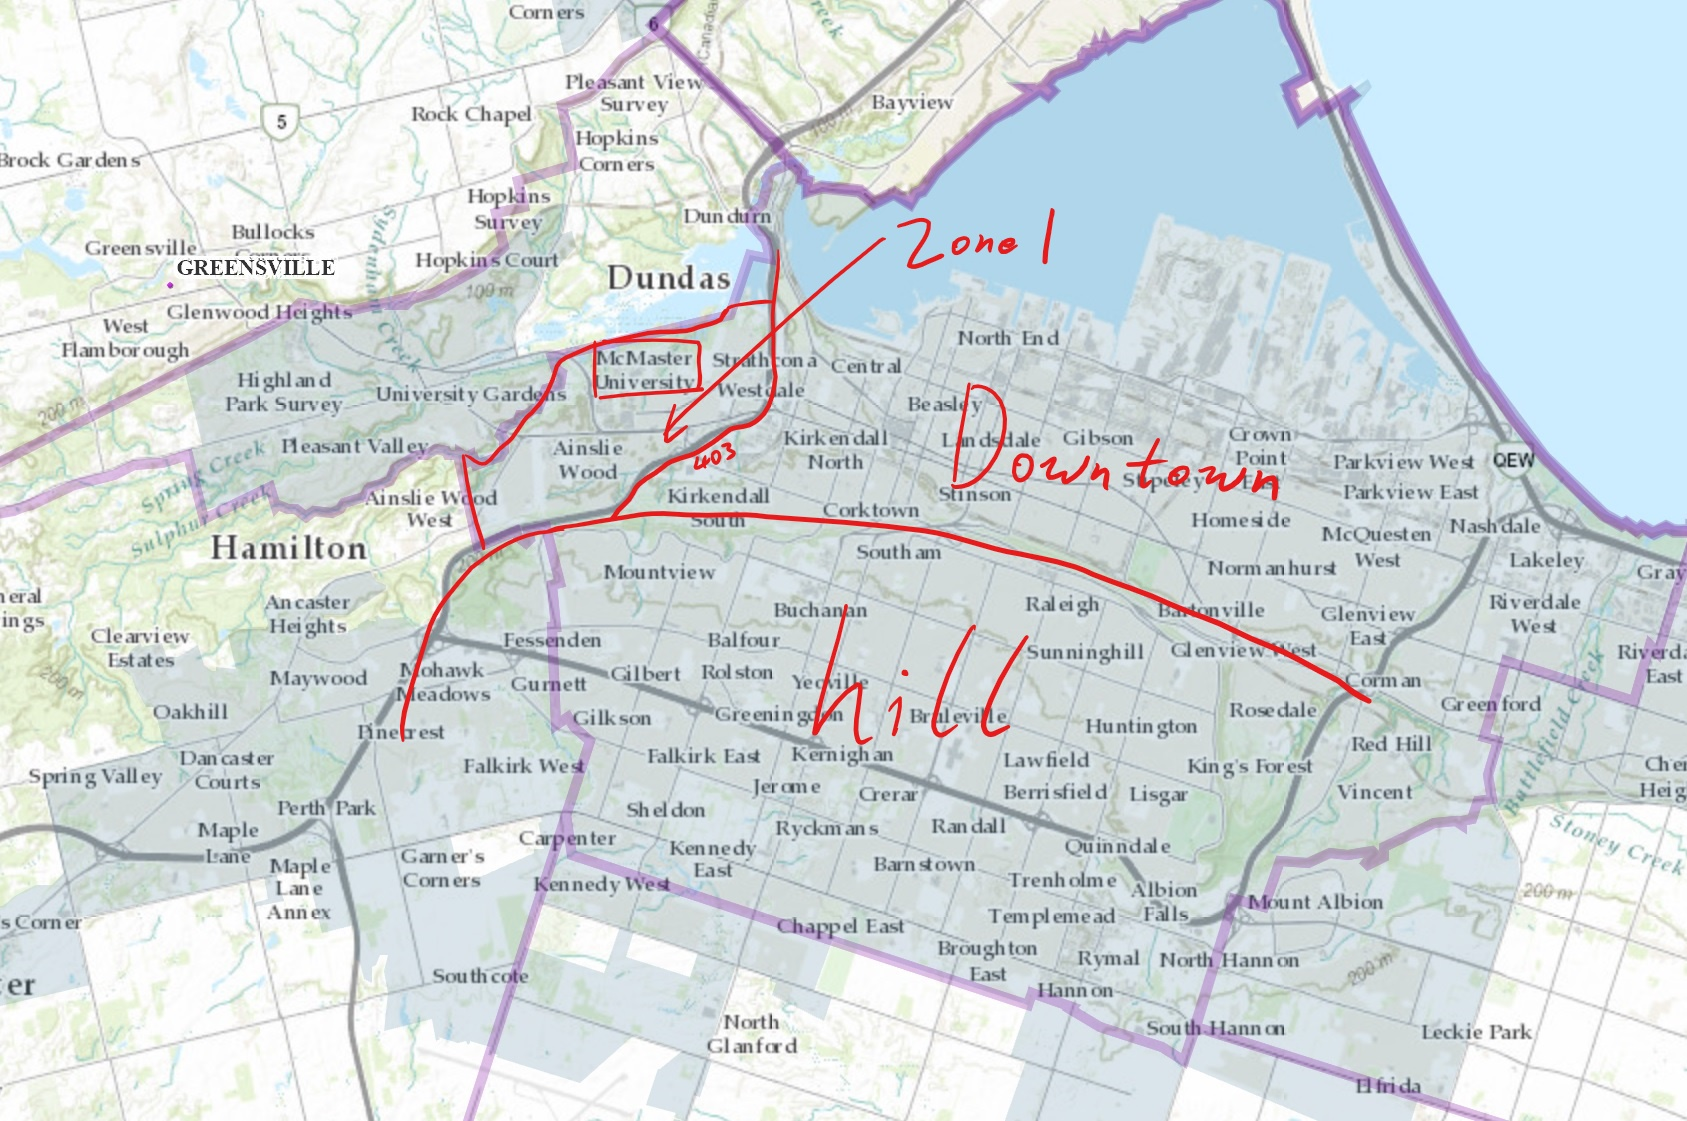
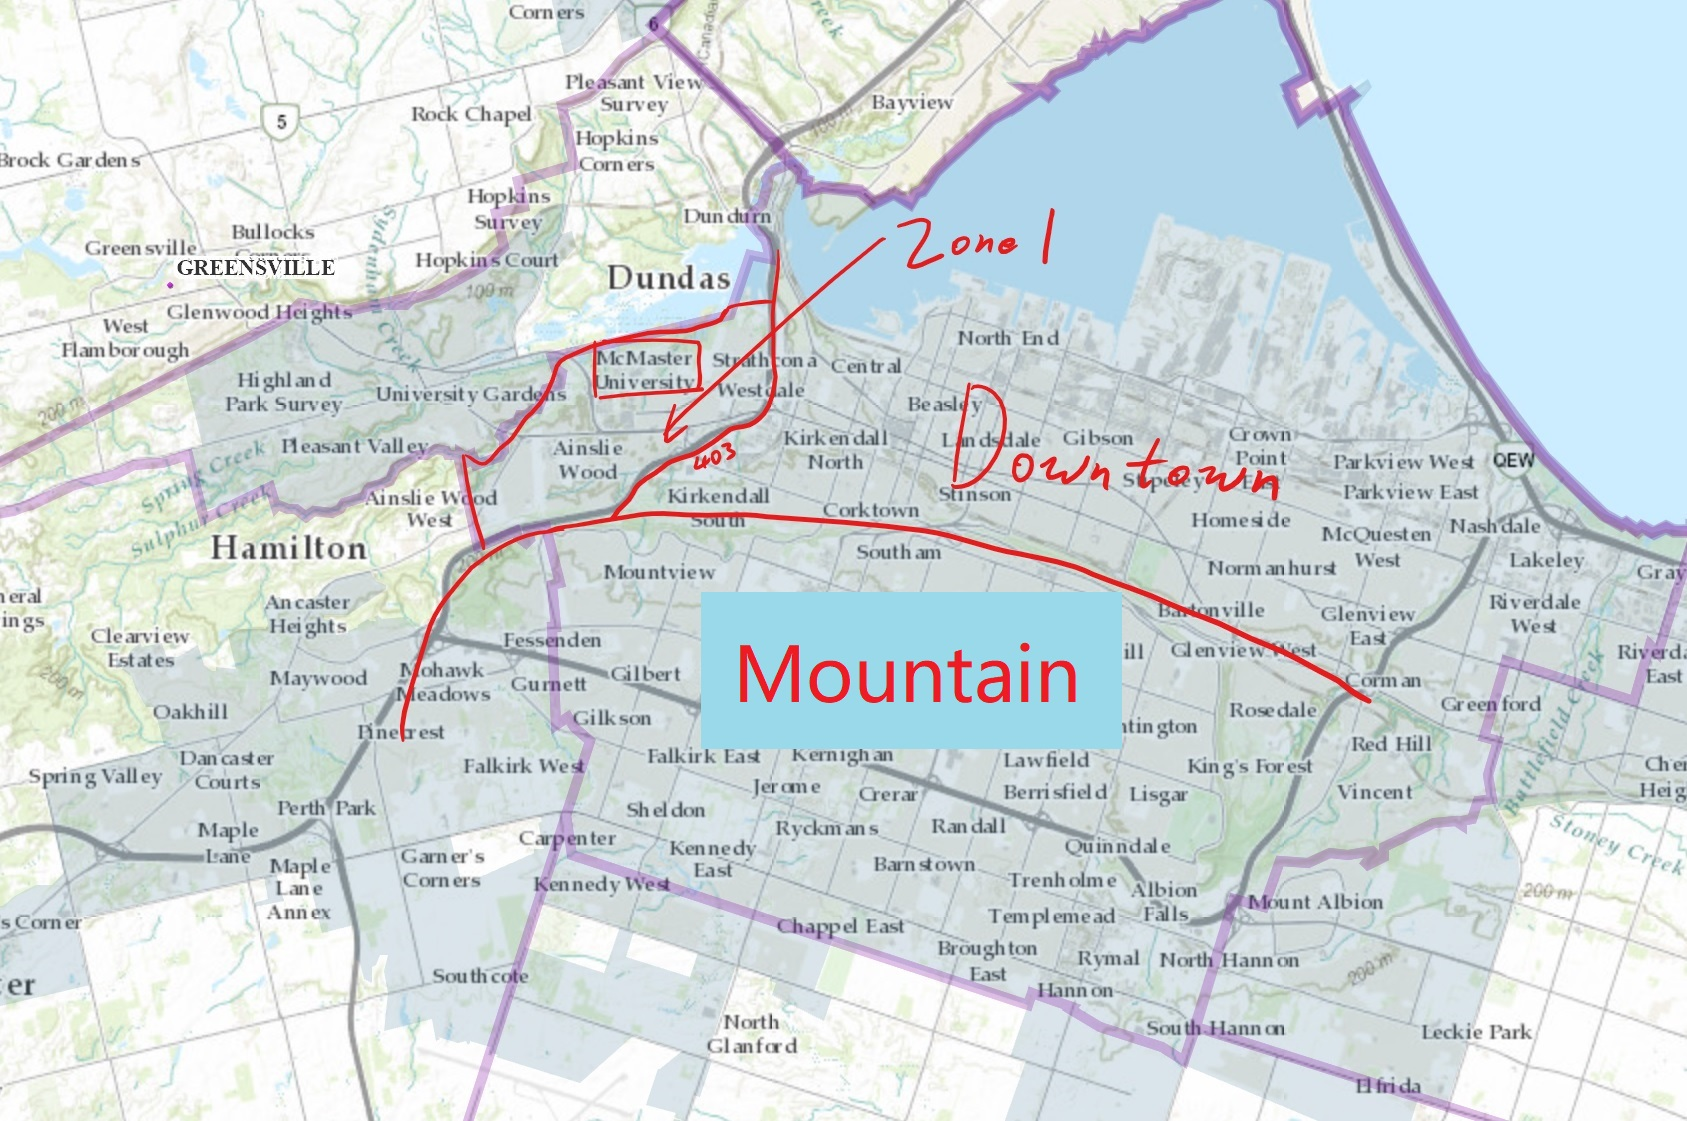
修改错误

Changed region(s): [[0.4007, 0.5308, 0.6781, 0.6869]]

diff --git a/docs/JiaZhao.rst b/docs/JiaZhao.rst
@@ -8,12 +8,17 @@
 - 官网
 
   - https://drivetest.ca/
+-考试费用
+
+  - https://drivetest.ca/tests/fees.html
+  - 官网列举的价格没有包含消费税。
 - 预定G2、G的路考
 
   - https://drivetest.ca/book-a-road-test/
 - 准备G1和G2的材料
 
-  - 群共享里有“G1 Drivers Handbook Study Guide”。包括G1往年题和G2路考指南。
+  - 官网材料：https://www.ontario.ca/document/official-mto-drivers-handbook 。大家可以点击网页里的“Table of contents”，在弹出的目录里点击“Print all”，然后保存成PDF再查看。
+  - 群共享里有“G1 Drivers Handbook Study Guide”，包括G1往年题和G2路考指南。
   - 网上也有一些模拟试题。
 
 G类驾照
@@ -31,7 +36,7 @@ G类驾照
 
   - Part I：20道选择题。辨认路牌和交通信号灯。
   - Part II：20道选择题。交通规则。
-  - 每一部分最多错两题，否则算不过。如果其中任何一个Part没过，则需额外交$15+tax重新考一次，直到通过为止。
+  - 每一部分最多错两题，否则算不过。如果其中任何一个Part没过，则需额外交$15.75+tax重新考一次，直到通过为止。
 
 2. G2 License
 
@@ -48,6 +53,7 @@ G类驾照
   - Part III：three-point turn（三点调头）
   - Part IV：路边停车，包括：pull over（直接停下）和parallel parking（平行泊车）
   - 考试各项指标一共100分，70分算通过。但如果出现严重的错误，例如：闯红灯、变道没有看倒车镜和盲点、撞到路牙石或其它人和车等等，则直接fail。
+  - 若第一次考G2没过，则需要再交$52.50+tax重新考一次。
 
 3. G License
 
@@ -59,12 +65,12 @@ G类驾照
 
 注：
 
-1) 第一次报名大概要交将近200刀的考试费，包括一次G1上机考试和一次G2路考的费用。需要带护照。
+1) 第一次报名大概要交$158.25+tax（2017）的考试费，包括一次G1上机考试和一次G2路考的费用。需要带护照。
 #) G1和G2的驾照只有5年的有效期。过了有效期需要重新从G1开始考。除非已经获得G license。
 #) 国内驾照来Canada可以开3个月的车，但是要有相应的驾照翻译件。3个月的时间是从第一次落地Canada算起。如果考了G1就不能再使用了，因此G1结束考G2的时候就不能自己驾车。https://www.ontario.ca/page/drive-ontario-visitors
 #) 国内驾龄满两年，并且携带国内车管所开具的无事故证明和驾照翻译，则可直接考G。但只有一次机会，若未通过，则从G2开始考起。https://drivetest.ca/licences/licence-exchanges/foreign-licence-experience-credits.html
 #) 国内驾龄满两年，但是未携带国内车管所开具的无违章记录证明，则从G2开始考起。
-#) 考完G1之后需要至少等12个月才能考G2。如果报驾校，并且拿到全科证书，等待时间可以缩短到8个月。https://drivetest.ca/book-a-road-test/helpnewbooking.html
+#) 考完G1之后需要至少等12个月才能考G2。如果报驾校，并且拿到全科证书，等待时间可以缩短到8个月。https://drivetest.ca/licences/drivers-licences-cars.html
 #) 如果住址变了，则需要更改驾照上的地址。对于国际学生来说，驾照地址不能在Service Ontario网站上更改，因为它需要OHIP的医保卡号，而国际学生购买的保险是UHIP，这两个不能通用，比较好的办法是亲自去一趟Service Ontario办事处更改。离学校比较近的办事处可以在Google地图上找到 https://www.google.ca/maps/search/ServiceOntario,+1280+Main+St+W,+Hamilton,+ON+L8S+4L8,+Ontario/@43.2585818,-79.9343397,13z/data=!3m1!4b1 。大家拿上老的驾照、新的租房合同去就可以了。修改完之后会寄给你一个新的驾照。整个过程都是免费的。
 
 租车
@@ -79,7 +85,7 @@ G类驾照
 
 - 价格=基本价格+保险+young fee+税
 
-  - 基本价格：租车网站上显示的价格
+  - 基本价格：租车网站上显示的价格。
   - 保险（damage waiver或DW）：给车买的车辆损坏保险。大概二三十刀。可以买租车公司的保险，出事故之后租车的人不需要在付任何关于车的维修费用。
   - young fee：对于25岁以下的人需要收额外的费用。
   - 税：前面几项费用之和的13%。
@@ -100,7 +106,7 @@ G类驾照
 
 1. 下面是几种有关车的保险：
 
-- damage waiver或DW：这个是租车的时候租车公司提供给客户的车辆意外损坏保险。意思是如果发生意外了，造成了车辆的损坏，只要买了这个保险，租车的人就不需要承担任何维修的费用。如果没有买，则需要租车的人自己掏钱修车。如果大家在其它地方购买了可以赔付修车的保险，则不需要买它。
+- damage waiver（DW）：这个是租车的时候租车公司提供给客户的车辆意外损坏保险。意思是如果发生意外了，造成了车辆的损坏，只要买了这个保险，租车的人就不需要承担任何维修的费用。如果没有买，则需要租车的人自己掏钱修车。如果大家在其它地方购买了可以赔付修车的保险，则不需要买它。
 - liability：这个通常包含在信用卡里，可以理解为国内的“交强险”。主要负责赔付发生事故时，对第三方财产的损坏，比如撞到他人或撞到其它物品。这个通常赔付数额巨大，一般信用卡里会有100W刀左右的赔付额度。这里也提醒大家，需要有一张带有liability的信用卡去租车。否则出事故后会赔得倾家荡产。
 - 自己买的UHIP等等。这个主要是出事故时，自己受伤了，需要用自己买的健康保险来付自己的医药费。
 

diff --git a/docs/HamiltonJieShao.rst b/docs/HamiltonJieShao.rst
@@ -11,14 +11,14 @@ Hamilton各个区
 | 各类地图：http://map.hamilton.ca/
 
 | Hamilton有6个区：Hamilton市区、Dundas、Ancaster、Stoney Creek、 Flamborough、Glanbrook。后面那5个地方可以理解为县。
-| Hamilton最主要的资源和人口都在Hamilton市区。Dundas有很多便宜的house和公寓；Ancaster有很多瀑布和美丽的风景；Stoney Creek离McMaster有些远，但在Hamilton考驾照只能去那；剩下的Flamborough和Glanbrook主要是农田和林场，和我们关系不大。
+| Hamilton最主要的资源和人口都在Hamilton市区。此外，Dundas有很多便宜的house和公寓；Ancaster有很多瀑布和美丽的风景；Stoney Creek离McMaster有些远，但在Hamilton考驾照只能去那；剩下的Flamborough和Glanbrook主要是农田和林场，和我们关系不大。
 
 .. image:: /resource/HamiltonMapBigArea.jpg
 
-| 和我们关系最紧密的当然是Hamilton市区了。一个大的区又分为多个小的区，相当于国内的街道。
-| 以McMaster University为中心，学校东边是Westdale，南边是Ainslie Wood，西边是University Gardens（原来叫University Plaza）。从租房的角度考虑，这些地方统称为Zone 1。
+| 和我们关系最紧密的当然是Hamilton市区了，Hamilton市区又分为三个部分：Downtown、Mountain、Zone 1。
+| 以McMaster University为中心，学校东边是Westdale，南边是Ainslie Wood，西边是University Gardens（原来叫University Plaza），这些地方可以理解为国内的街道。从租房的角度考虑，这些地方统称为Zone 1。
 | 403高速以东就是Hamilton市区的Downtown了。其中最最中心和繁华的地方就在Kirkendall North、Beasley、Landsdale。如果大家想住在Downtown，那最好住在这一片。其它地方离McMaster太远，也不是特别安全。
-| Downtown和Zone 1以南是Hamilton的一座小山，山上是一大片平原。在山上有各种自助餐厅，Hamilton最大的Lime Ridge Mall商场和Walmart。即便如此，也希望大家一定不要住在山上，因为Zone 1和山上没有公交直达的道路，分界线恰是Hill最陡峭的地方。想从Zone 1到山上最近也得先绕到Downtown的Corktown或Stinson附近。
+| Downtown和Zone 1以南是Hamilton的一座小山（Mountain），山上是一大片平原。在山上有各种自助餐厅，Hamilton最大的购物商场Lime Ridge Mall和杂货店Walmart。即便如此，也希望大家一定不要住在山上，因为Zone 1和山上没有公交直达的道路，分界线恰是Hill最陡峭的地方。想从Zone 1到山上最近也得先绕到Downtown的Corktown或Stinson附近。
 
 .. image:: /resource/HamiltonMapSmallArea.jpg
 

diff --git a/docs/BaoShui.rst b/docs/BaoShui.rst
@@ -12,8 +12,8 @@
 2. T3表：全称是“Statement of Trust Income Allocations and Designations (slip)”。一般指股票，债卷，利息等收益。
 3. T4表：
 
-- T4：全称是“Statement of Remuneration Paid (slip)”。工资退税（不包括TA、RA），一般指intern，coop和full time工作的工资。只有这个税表产生的税收可以用学费抵税额度全部退回来。（这也激励大家要尽快找到正式的工作，把学费抵税额度退回来）
-- T4A：全称是“Statement of Pension, Retirement, Annuity, and Other Income”。2月份学校会发给每位有TA、RA学生T4A表，列出上一年度学生的各项收入，用于填报税表。对于学生学生，由于收入低，所征的税基本是全额退税。
+- T4：全称是“Statement of Remuneration Paid (slip)”。工资退税（不包括TA、RA），一般指intern，coop和full time工作的工资交的税。只有这个税表列举的所交的税收可以用学费抵税额度全部退回来。（这也激励大家要尽快找到正式的工作，把学费抵税额度退回来）
+- T4A：全称是“Statement of Pension, Retirement, Annuity, and Other Income”。2月份学校会发给每位有TA、RA学生T4A表，列出上一年度学生的各项收入，用于填报税表。对于学生，由于收入低，所征的税基本是全额退税。
 
 4. T5表：全称是“Statement of Investment Income (slip)”。GIC利息和银行存款利息退税。如果一年产生的利息小于等于$50，则不退税。
 5. 房租： 在安省租房，对低收入人群有部分退税。 
@@ -26,6 +26,6 @@
 
 注
 ---------------------------
-1) 没有收入的同学可以在一年里任何时候报税。有收入的同学请务必在3~4月期间报税，因为可能涉及到交的税不够，不但不退税还要补税的情况。3~4月是处理报税请求最快的时期，晚于这个时间报税，处理时间可能会延长。
+1) 没有收入的同学可以在一年里任何时候报税。有收入的同学请务必在3~4月期间报税，因为可能涉及到交的税不够，不但不退税还要补税的情况，一旦晚于4月报税，则补税还要收利息。3~4月是处理报税请求最快的时期，晚于这个时间报税，处理时间可能会延长。
 #) 上面提到的T2~T5不一定每个人都有，但如果有一定要提交给税务局。
 #) Research scholarship、entrance scholarship等各种scholarship、tuition bursary不属于employment收入，要申报，但不缴税，即不存在退税的问题。

diff --git a/docs/HamiltonRiChangGouWuDiDian.rst b/docs/HamiltonRiChangGouWuDiDian.rst
@@ -5,16 +5,19 @@ Canada主要超市
 1. Shoppers Drug Mart
 
 | Shoppers可能是大家以后最经常去的超市，有点像国内大学里的超市一样，规模适中。但日常用品齐全。大家可以买到各种洗漱用品，牛奶鸡蛋面包，零食，化妆品以及其它生活用品。此外Shoppers里还卖各种保健品和营养品（不需要处方），以及其它药物（OTC和非OTC都需要处方）。
+| 周四使用学生卡可以对没有打折的商品打8折。
 | https://www1.shoppersdrugmart.ca/en/home
 
 2. Fortinos
 
 | 一家很大的西人超市，肉类可能是最有名的商品了。不但新鲜，而且可以按照你的要求处理好。
+| 周二使用学生卡可以对没有打折的商品打8折。
 | https://www.fortinos.ca/
 
 3. Foodbasic (Metro)
 
 | 原先是Metro，后来被Foodbasics收购走了部分商场，和Fortinos类似，但只卖吃的。
+| 周二使用学生卡可以对没有打折的商品打8折。
 | https://www.foodbasics.ca/index.en.html
 
 4. Nations Fresh Foods

diff --git a/docs/kuaidi.rst b/docs/kuaidi.rst
@@ -16,6 +16,7 @@ Canada邮政公司：Canada Post
 
 华人快递公司
 ------------------------------------------------------
-1) 中加国际快递：http://scicglobal.com/ Hamilton代理：http://www.hamiltonchinese.com/forum.php?mod=viewthread&tid=121491
+1) 申通快递：http://stoexpress.ca/
+#) 中加国际快递：http://scicglobal.com/ Hamilton代理：http://www.hamiltonchinese.com/forum.php?mod=viewthread&tid=121491
 #) 锦程快递：http://www.hr-ex.com/ch Hamilton代理：http://maccssa.org/bbs/forum.php?mod=viewthread&tid=20295
 #) 丰泰国际快递：http://soonexpress.com/

diff --git a/docs/CanTing.rst b/docs/CanTing.rst
@@ -390,7 +390,7 @@ http://hospitality.mcmaster.ca/meal_plans/meal-plans.html
   - 273 King St E, Hamilton, ON L8N 1B9
   - (905)528-5945
 
-3. 山上（Upper James）：
+3. 山上（Mountain）：
 
 - Mandarin：中餐自助
 
